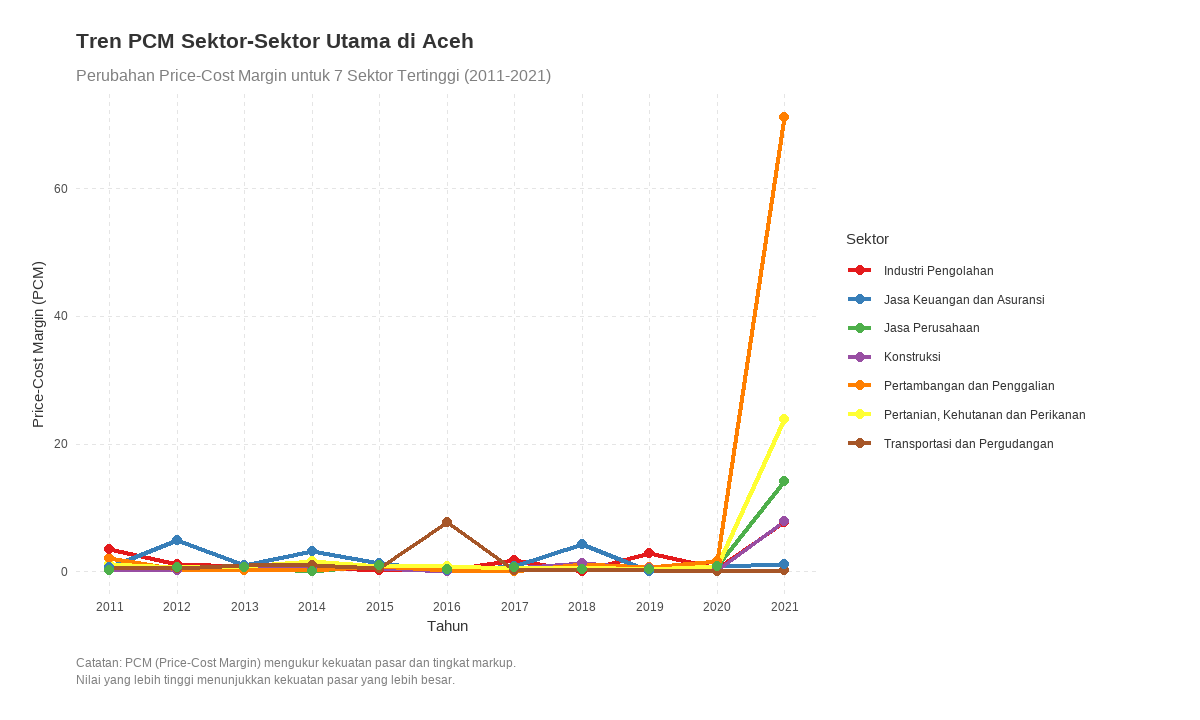
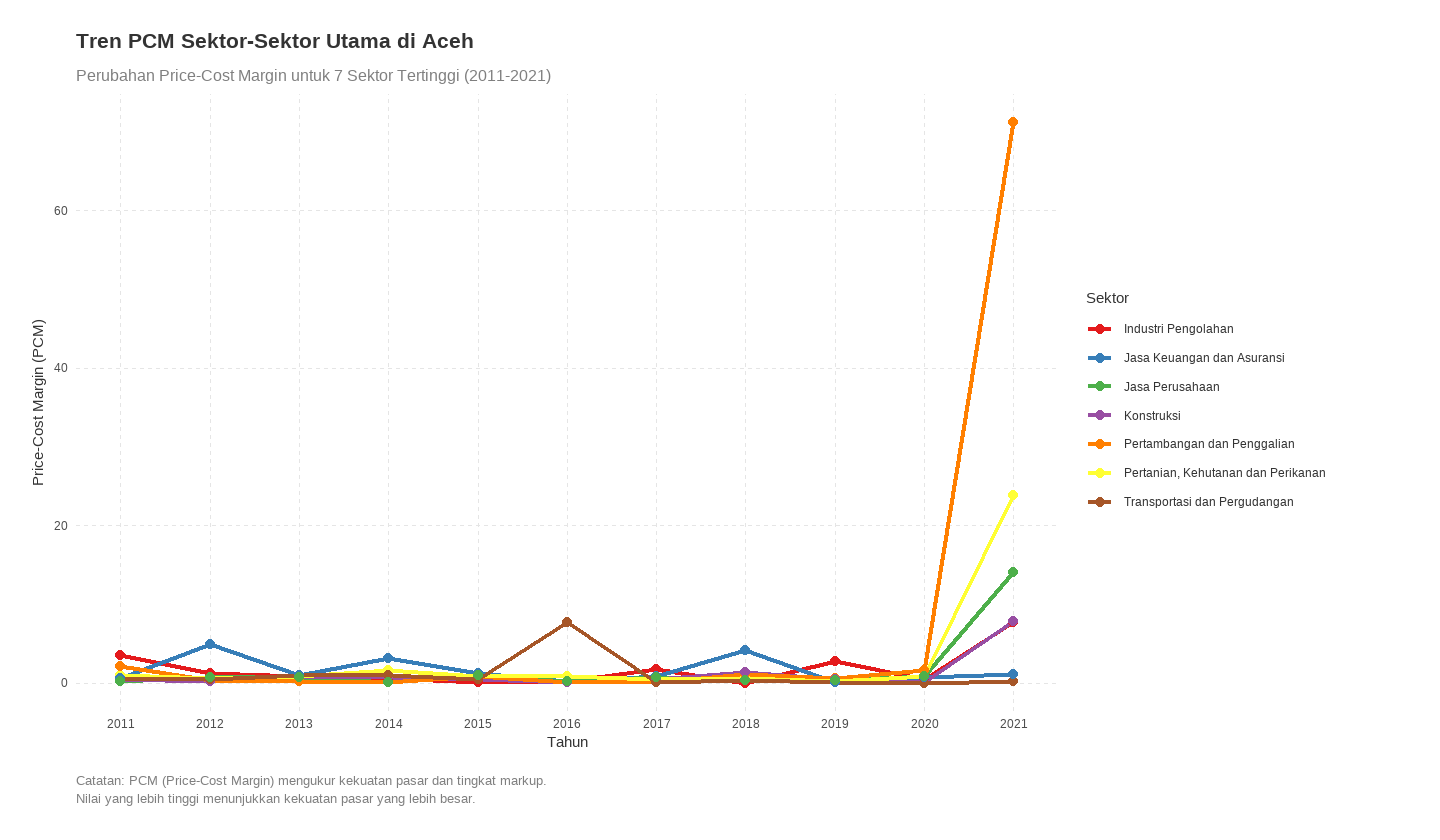
Built site for gh-pages

diff --git a/blog/2025_08_01_pcm/index.html b/blog/2025_08_01_pcm/index.html
@@ -145,8 +145,8 @@ window.Quarto = {
 <meta property="og:description" content="">
 <meta property="og:image" content="https://derisiswara.art/blog/2025_08_01_pcm/index_files/figure-html/cell-8-output-1.png">
 <meta property="og:site_name" content="Deri Siswara">
-<meta property="og:image:height" content="720">
-<meta property="og:image:width" content="1200">
+<meta property="og:image:height" content="840">
+<meta property="og:image:width" content="1440">
 </head>
 
 <body class="nav-fixed quarto-light">
@@ -1469,11 +1469,11 @@ P_t = \frac{\mathrm{ADHB}_t}{\mathrm{ADHK}_t}.
 </table>
 </div>
 </div>
-<div id="ed997d38" class="cell" data-quarto-private-1="{&quot;key&quot;:&quot;vscode&quot;,&quot;value&quot;:{&quot;languageId&quot;:&quot;r&quot;}}" data-message="false" data-execution_count="67">
+<div id="ed997d38" class="cell" data-quarto-private-1="{&quot;key&quot;:&quot;vscode&quot;,&quot;value&quot;:{&quot;languageId&quot;:&quot;r&quot;}}" data-message="false" data-execution_count="79">
 <div class="cell-output cell-output-display">
 <div>
 <figure class="figure">
-<p><img src="index_files/figure-html/cell-8-output-1.png" width="600" height="360" class="figure-img"></p>
+<p><img src="index_files/figure-html/cell-8-output-1.png" width="720" height="420" class="figure-img"></p>
 </figure>
 </div>
 </div>

diff --git a/blog/index.html b/blog/index.html
@@ -215,7 +215,7 @@ window.Quarto = {
 <div id="listing-blog" class="quarto-listing quarto-listing-container-custom">
 <div class="list blog">
     
-    <div class="blog-entry" data-index="0" data-listing-date-sort="1753981200000" data-listing-file-modified-sort="1754022262657" data-listing-date-modified-sort="NaN" data-listing-reading-time-sort="3" data-listing-word-count-sort="591">
+    <div class="blog-entry" data-index="0" data-listing-date-sort="1753981200000" data-listing-file-modified-sort="1754022847036" data-listing-date-modified-sort="NaN" data-listing-reading-time-sort="3" data-listing-word-count-sort="591">
         <div class="metadata">          
             <p class="date listing-date">August 1, 2025</p>
         </div>
